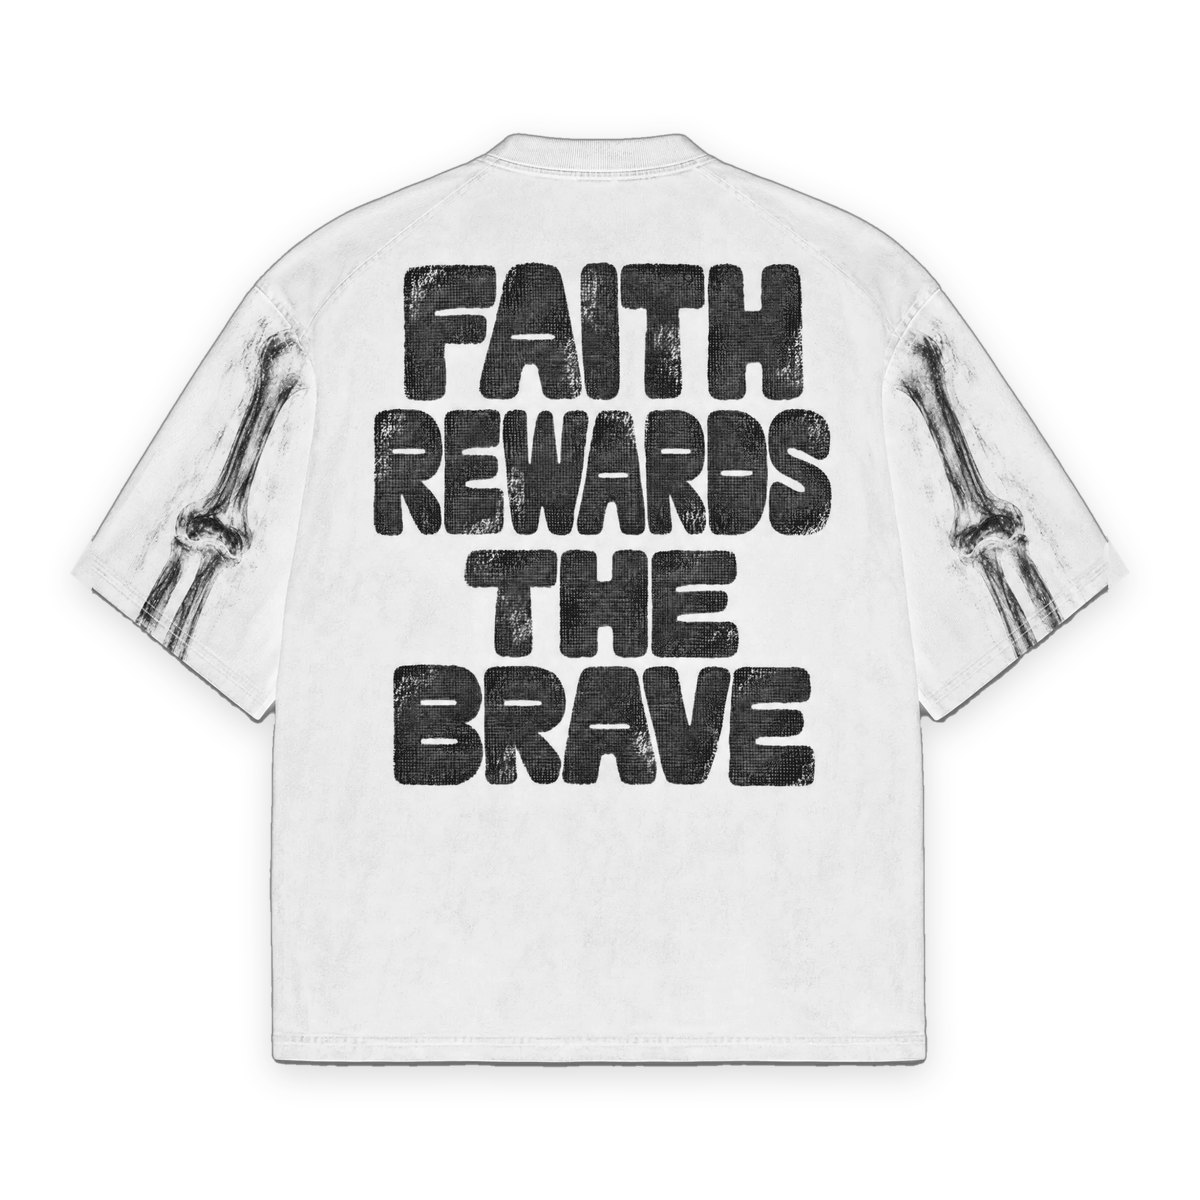
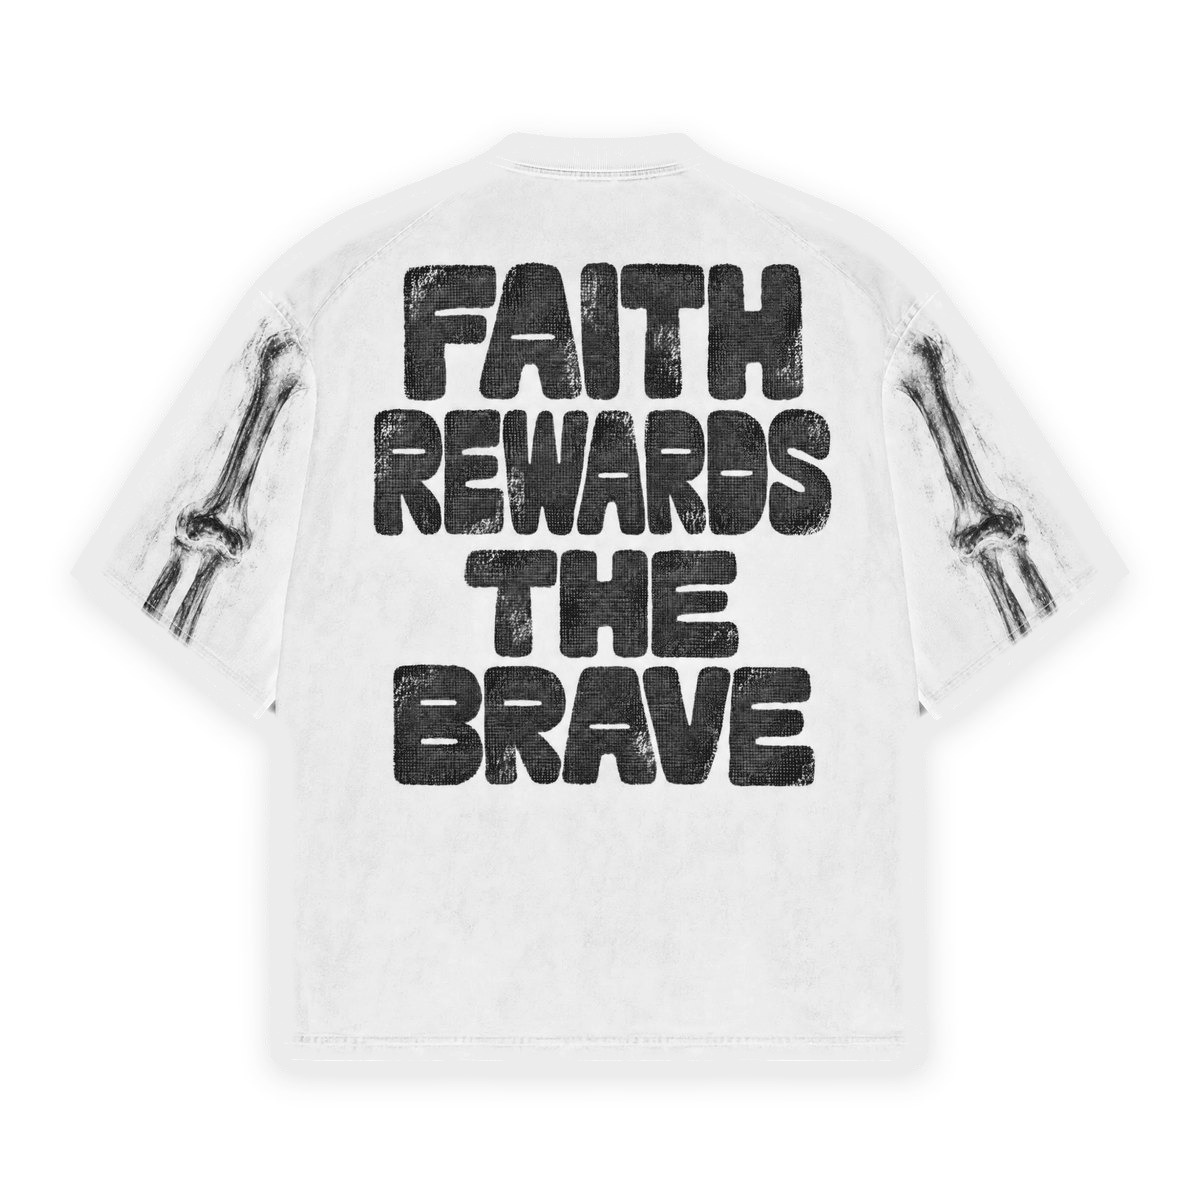
Deposit or full payment only, print length instead of sq in, one badge perk (community group), clean white 11/11 tee photos
Claude-Session: https://claude.ai/code/session_019QGSbsWRYL8V28rLuUQ5NB

diff --git a/src/lib/faq.ts b/src/lib/faq.ts
@@ -1,7 +1,7 @@
 import type { Settings } from './types'
 import type { RewardRules } from './rewards'
 import { fmtPts } from './rewards'
-import { PRICE_STRIP_IN } from '../components/TeeMockup'
+import { PRINT_SIZES, priceGuide } from './pricing'
 
 // The FAQ: every page of the site, the rewards, the pirogue and the hidden treasure, explained.
 // Numbers come from the live settings and reward rules, so answers stay right when they change.
@@ -27,8 +27,6 @@ export interface FaqCategory {
   blurb: string
   items: FaqItem[]
 }
-
-const sq = (inches: number) => Math.round(inches * PRICE_STRIP_IN)
 
 export function buildFaq(s: Settings, r: RewardRules, money: (n: number) => string): FaqCategory[] {
   const p = fmtPts
@@ -285,15 +283,11 @@ export function buildFaq(s: Settings, r: RewardRules, money: (n: number) => stri
           q: 'How is a custom tee priced?',
           a: [
             'By how much of the tee you print. The print on every area (front, back, sleeves and neck label) is added together, so there’s no separate charge per area.',
-            [
-              '**' + money(s.custom_base_price) + '** covers up to ' + sq(s.print_included_in) + ' sq in of print: enough for one big front or back print.',
-              '**' + money(s.price_at_tier) + '** at ' + sq(s.price_tier_in) + ' sq in.',
-              '**' + money(s.price_at_max) + '** at ' + sq(s.price_max_in) + ' sq in.',
-              'Then **' + money(s.price_per_inch_after) + '** for every extra ' + PRICE_STRIP_IN + ' sq in.',
-            ],
-            'Between those points the price rises a little at a time, rounded to the nearest 5. The studio shows the print size of each area and the running total as you design.',
+            'Print size is measured as the **length of the print on each side**: a **full print** is about ' + PRINT_SIZES.full + ' in long and a **mid print** about ' + PRINT_SIZES.mid + ' in long. Narrower prints count for less.',
+            priceGuide(s, money).map((g) => '**' + g.price + '** ' + g.text),
+            'Between those points the price rises a little at a time, rounded to the nearest 5. The studio shows the print length on each side and the running total as you design.',
           ],
-          tags: 'cost price square inches sq in print area front back sleeve label extra how much',
+          tags: 'cost price print size length inches full print mid print front back sleeve label extra how much',
         },
         {
           id: 'pricing-confirm',
@@ -333,7 +327,7 @@ export function buildFaq(s: Settings, r: RewardRules, money: (n: number) => stri
               '**Contact**: your name, email and phone or WhatsApp number. We use the email to look up your order.',
               '**Delivery**: have it delivered (' + money(s.shipping_fee) + ') with your address, or collect it for free.',
               '**Notes** (optional): deadlines, event dates or special requests.',
-              '**Payment**: bank transfer or cash on collection.',
+              '**Payment**: pay in full, or a 50% deposit with the balance before collection or delivery.',
             ],
             'If you’re signed in, your rewards appear here too, so you can apply a discount or a free tee. Press **Place order** and you’ll get your **order code**.',
           ],
@@ -345,11 +339,12 @@ export function buildFaq(s: Settings, r: RewardRules, money: (n: number) => stri
           a: [
             [
               '**Bank transfer** (preferred). Use your order code as the reference.',
-              '**Cash on collection**, with a **50% down payment** first. Down payments can be made at any Paywise outlet nationwide.',
+              'At any **Paywise** outlet nationwide.',
             ],
-            'After you order, the order page shows the amount due, the 50% down payment and your reference. Design work and printing only start once the down payment is made.',
+            'Every order needs **full payment** or a **50% deposit** up front; any balance is due before you collect or we deliver. We don’t take cash on collection.',
+            'After you order, the order page shows the amount due, the 50% deposit and your reference. Design work and printing only start once your payment is made.',
           ],
-          tags: 'pay payment bank transfer cash deposit down payment paywise reference card online',
+          tags: 'pay payment bank transfer cash deposit down payment full paywise reference card online collection',
         },
         {
           id: 'turnaround',
@@ -474,14 +469,10 @@ export function buildFaq(s: Settings, r: RewardRules, money: (n: number) => stri
           q: 'What do Engagement Points get me?',
           a: [
             'At **' + p(r.free_tee_ep) + ' EP** you earn a **free standard tee** (up to ' + money(r.free_tee_max_price) + '). Add one to your bag and make it free at checkout, or let it ride along free with your first order. It’s set aside for you for ' + r.claim_days + ' days.',
-            'Along the way you unlock badges, which are never spent:',
-            [
-              '**Lookout** at 250 EP: a badge on your account.',
-              '**Navigator** at 500 EP: a badge and first look at new drops.',
-              '**Smuggler’s World** at 1,000 EP: preview access to Smuggler’s World.',
-            ],
+            'Along the way you unlock badges, which are never spent: **Lookout** at 250 EP, **Navigator** at 500 EP and **Smuggler’s World** at 1,000 EP.',
+            '**Any badge gets you into our community group.** Once you have one, a **Join** button appears under your badges on your account page.',
           ],
-          tags: 'free tee redeem badges milestones lookout navigator smugglers world',
+          tags: 'free tee redeem badges milestones lookout navigator smugglers world community group chat join',
         },
         {
           id: 'rewards-buyer',

diff --git a/src/pages/Designer.tsx b/src/pages/Designer.tsx
@@ -2,7 +2,7 @@ import { useCallback, useEffect, useRef, useState } from 'react'
 import { useSearchParams } from 'react-router-dom'
 import { ArrowDown, ArrowUp, Check, Download, Info, Link2, Loader2, Minus, Plus, Redo2, RotateCcw, Save, Type, Undo2 } from 'lucide-react'
 import type { Area, Design, Layer, RosterRow } from '../lib/types'
-import { AREAS, CUSTOM_SIZES, areaScale, PRICE_STRIP_IN, PRINT, TeeMockup, areaBounds, areaCentre, svgToPng, VIEW } from '../components/TeeMockup'
+import { AREAS, CUSTOM_SIZES, areaScale, PRINT, TeeMockup, areaBounds, areaCentre, svgToPng, VIEW } from '../components/TeeMockup'
 import { Button, Field, Input, Swatch } from '../components/ui'
 import { FITS, TEE_COLORS, colorName, fitName } from '../lib/constants'
 import { cx, money, uid } from '../lib/format'
@@ -10,7 +10,7 @@ import { useSettings } from '../lib/settings'
 import { useCart } from '../store/cart'
 import { toast } from '../components/Toast'
 import { getDesign, getProduct, saveDesign } from '../lib/api'
-import { AREA_ORDER, areaLayers, customPrice, quoteCustom } from '../lib/pricing'
+import { AREA_ORDER, PRINT_SIZES, areaLayers, customPrice, inLabel, quoteCustom } from '../lib/pricing'
 import { checkImage, warmUpChecker } from '../lib/moderation'
 import { detectToneBase } from '../lib/tone'
 import { erasePlainBackground, removeBackground } from '../lib/bgRemoval'
@@ -33,8 +33,6 @@ const DRAFT = 'sp.designer.draft'
 const RULES_KEY = 'sp.designer.rules'
 const blank = (): Design => ({ color: '#111111', fit: 'regular', front: [], back: [] })
 const SMALL: Area[] = ['sleeve_left', 'sleeve_right', 'label']
-/** Running inches of the print strip, as square inches of print. */
-const sqIn = (inches: number) => Math.round(inches * PRICE_STRIP_IN)
 
 const loadDraft = (): Design => {
   try {
@@ -708,16 +706,16 @@ export default function Designer() {
               <p className="mt-1 text-xs text-ink-400">True to the size chart: the same print looks smaller on a bigger tee.</p>
             </div>
             <div className="space-y-1 text-sm">
-              <div className="flex justify-between text-ink-400"><span>Custom tee, {fitName(fit).toLowerCase()}, up to {sqIn(settings.print_included_in)} sq in of print</span><span className="shrink-0">{money(settings.custom_base_price)}</span></div>
+              <div className="flex justify-between text-ink-400"><span>Custom tee, {fitName(fit).toLowerCase()}, prints up to {inLabel(Math.round(settings.print_included_in))} long</span><span className="shrink-0">{money(settings.custom_base_price)}</span></div>
               {quote.lines.map((l) => (
                 <div key={l.area} className="flex justify-between gap-2 pl-3 text-xs text-ink-400">
                   <span>{AREAS[l.area].name} print</span>
-                  <span className="shrink-0">{measured.print_sq_in?.[l.area] ?? 0} sq in</span>
+                  <span className="shrink-0">{inLabel(l.inches)} long</span>
                 </div>
               ))}
               {quote.price > settings.custom_base_price && (
                 <div className="flex justify-between text-[#9a6a00]">
-                  <span>Extra print area, {sqIn(quote.inches - settings.print_included_in)} sq in</span>
+                  <span>Extra print length, {inLabel(quote.inches - settings.print_included_in)}</span>
                   <span className="shrink-0">+{money(quote.price - settings.custom_base_price)}</span>
                 </div>
               )}
@@ -726,10 +724,11 @@ export default function Designer() {
             <p className="flex gap-2 rounded-lg bg-acid/10 p-2.5 text-xs text-ink-300">
               <Info size={14} className="mt-0.5 shrink-0 text-acid" />
               <span>
-                Your price depends on how much of the tee you print: front, back, sleeves and label added together.
-                {money(settings.custom_base_price)} covers up to {sqIn(settings.print_included_in)} sq in, enough for one big front or back print.
-                More print adds a little at a time: {money(settings.price_at_tier)} at {sqIn(settings.price_tier_in)} sq in and {money(settings.price_at_max)} at {sqIn(settings.price_max_in)} sq in,
-                then {money(settings.price_per_inch_after)} for every extra {PRICE_STRIP_IN} sq in.
+                Your price depends on the print length on each side (front, back, sleeves and label added together).
+                A full print is about {PRINT_SIZES.full} in long and a mid print about {PRINT_SIZES.mid} in long; narrower prints count for less.
+                {' '}{money(settings.custom_base_price)} covers one full print on the front or back.
+                More print adds a little at a time: {money(settings.price_at_tier)} for {Math.round(settings.price_tier_in)} in of print in total and {money(settings.price_at_max)} for {Math.round(settings.price_max_in)} in,
+                then {money(settings.price_per_inch_after)} for every extra inch.
               </span>
             </p>
             <div className="flex items-center gap-3">

diff --git a/src/components/RewardsPanel.tsx b/src/components/RewardsPanel.tsx
@@ -1,9 +1,11 @@
 import { useEffect, useState } from 'react'
 import { Link } from 'react-router-dom'
-import { Anchor, Check, Compass, Gift, ImagePlus, Lock, Send, Telescope } from 'lucide-react'
+import { Anchor, Check, Compass, Gift, ImagePlus, Lock, Send, Telescope, Users } from 'lucide-react'
+import { useSettings } from '../lib/settings'
+import { WHATSAPP } from '../lib/brand'
 import { usePoints } from '../lib/points'
 import {
-  CURRENCY, MILESTONES, fmtPts, ladder, ledgerTitle, myLedger, mySubmissions, submitSocial,
+  BADGE_PERK, CURRENCY, MILESTONES, fmtPts, ladder, ledgerTitle, myLedger, mySubmissions, submitSocial,
   type LedgerRow, type MyRewards, type RewardRules, type SocialKind, type Submission,
 } from '../lib/rewards'
 import { uploadMedia } from '../lib/api'
@@ -22,21 +24,34 @@ function Bar({ value, max, className }: { value: number; max: number; className?
 
 const BADGE_ICONS = [Telescope, Compass, Anchor]
 
-/** Lookout, Navigator and Smuggler's World: given on reaching each total of Engagement Points, never spent. */
+/** Lookout, Navigator and Smuggler's World: given on reaching each total of Engagement Points, never spent. Any badge opens the community group. */
 function Badges({ lifetime }: { lifetime: number }) {
+  const { settings } = useSettings()
+  const earned = MILESTONES.filter((m) => lifetime >= m.at)
+  const best = earned[earned.length - 1]
+  // Until a group invite link is set in admin settings, members ask for the invite on WhatsApp.
+  const join = settings.community_url || `${WHATSAPP}?text=${encodeURIComponent(`Hi! I've unlocked the ${best?.name ?? ''} badge. Please add me to the community group.`)}`
   return (
-    <ul className="mt-4 grid gap-2 sm:grid-cols-3">
-      {MILESTONES.map((m, i) => {
-        const got = lifetime >= m.at
-        const Icon = BADGE_ICONS[i]
-        return (
-          <li key={m.at} className={cx('flex items-center gap-3 rounded-xl border p-3 text-sm', got ? 'border-[#f6b21a] bg-[#f6b21a]/10' : 'border-white/15 text-white/50')}>
-            <span className={cx('grid h-9 w-9 shrink-0 place-items-center rounded-full', got ? 'bg-[#f6b21a] text-black' : 'bg-white/10')}>{got ? <Icon size={18} /> : <Lock size={14} />}</span>
-            <span><b className="block">{m.name}</b><span className="text-xs opacity-75">{got ? m.perk : `At ${fmtPts(m.at)} EP`}</span></span>
-          </li>
-        )
-      })}
-    </ul>
+    <div className="mt-4">
+      <p className="text-xs text-white/60">Badges are never spent. Unlock any badge to join our community group.</p>
+      <ul className="mt-2 grid gap-2 sm:grid-cols-3">
+        {MILESTONES.map((m, i) => {
+          const got = lifetime >= m.at
+          const Icon = BADGE_ICONS[i]
+          return (
+            <li key={m.at} className={cx('flex items-center gap-3 rounded-xl border p-3 text-sm', got ? 'border-[#f6b21a] bg-[#f6b21a]/10' : 'border-white/15 text-white/50')}>
+              <span className={cx('grid h-9 w-9 shrink-0 place-items-center rounded-full', got ? 'bg-[#f6b21a] text-black' : 'bg-white/10')}>{got ? <Icon size={18} /> : <Lock size={14} />}</span>
+              <span><b className="block">{m.name}</b><span className="text-xs opacity-75">{got ? BADGE_PERK : `At ${fmtPts(m.at)} EP`}</span></span>
+            </li>
+          )
+        })}
+      </ul>
+      {best && (
+        <a href={join} target="_blank" rel="noreferrer" className="mt-3 inline-flex items-center gap-2 rounded-full bg-[#f6b21a] px-4 py-2 text-sm font-semibold text-black transition hover:brightness-110 active:scale-95">
+          <Users size={16} /> Join our community group
+        </a>
+      )}
+    </div>
   )
 }
 

diff --git a/src/lib/seed.ts b/src/lib/seed.ts
@@ -83,7 +83,7 @@ export const seedProducts = (): Product[] => [
     variants: [
       { id: 'tee-gold', style: "Oversized tee (men's)", color: 'Black / gold print', swatch: '#111111', print: '#F2B91A', images: ['/products/frtb-tee-gold-front.jpg', '/products/frtb-tee-gold-back.jpg'] },
       { id: 'tee-red', style: "Oversized tee (men's)", color: 'Black / red print', swatch: '#111111', print: '#E12124', images: ['/products/frtb-tee-red-front.jpg', '/products/frtb-tee-red-back.jpg'] },
-      { id: 'tee-white', style: "Oversized tee (men's)", color: 'White / black print', swatch: '#FFFFFF', print: '#111111', images: ['/products/frtb-tee-white-front.jpg', '/products/frtb-tee-white-back.jpg'] },
+      { id: 'tee-white', style: "Oversized tee (men's)", color: 'White / black print', swatch: '#FFFFFF', print: '#111111', images: ['/products/frtb-tee-white2-front.jpg', '/products/frtb-tee-white2-back.jpg'] },
       { id: 'vest-gold', style: "Cropped vest (women's)", color: 'Black / gold print', swatch: '#111111', print: '#F2B91A', images: ['/products/frtb-vest-gold-front.jpg', '/products/frtb-vest-gold-back.jpg'] },
       { id: 'vest-red', style: "Cropped vest (women's)", color: 'Black / red print', swatch: '#111111', print: '#E12124', images: ['/products/frtb-vest-red-front.jpg', '/products/frtb-vest-red-back.jpg'] },
       { id: 'vest-white', style: "Cropped vest (women's)", color: 'White / black print', swatch: '#FFFFFF', print: '#111111', images: ['/products/frtb-vest-white-front.jpg', '/products/frtb-vest-white-back.jpg'] },
@@ -105,7 +105,8 @@ export const defaultSettings = (): Settings => ({
   free_shipping_over: 0,
   whatsapp: '',
   announcement: 'New drop: Sovereignty. Ultra heavyweight 400gsm.',
-  payment_instructions: 'Bank transfer is preferred: use your order code as the reference. Paying cash on collection? Make the 50% down payment first, at any Paywise outlet nationwide.',
+  community_url: '',
+  payment_instructions: 'Pay by bank transfer (preferred), using your order code as the reference, or at any Paywise outlet nationwide. Pay in full, or a 50% deposit now with the balance before you collect or we deliver.',
 })
 
 const NAMES = ['Thabo M.', 'Aisha K.', 'Jordan P.', 'Lerato S.', 'Mike D.', 'Zanele N.', 'Chris O.', 'Naledi B.', 'Sam W.', 'Kea T.', 'Priya R.', 'Liam F.']

diff --git a/src/lib/pricing.ts b/src/lib/pricing.ts
@@ -43,3 +43,25 @@ export function quoteCustom(d: Design, s: Settings): CustomQuote {
 }
 
 export const customPrice = (d: Design, s: Settings) => quoteCustom(d, s).price
+
+/** Print sizes customers know, in inches of print length (one side, full print width). */
+export const PRINT_SIZES = { full: 22, mid: 15 }
+
+/** Inches for customer copy: whole inches, or one decimal when it matters (e.g. 4.5 in). */
+export const inLabel = (n: number) => `${Math.round(n * 2) / 2} in`
+
+/**
+ * The custom-tee price points in plain words, as print length on each side (never square inches):
+ * a full print is about 22 in long, a mid print about 15 in long. Used by the design studio and the FAQ.
+ */
+export function priceGuide(s: Settings, money: (n: number) => string) {
+  const full = Math.round(s.print_included_in)
+  const tierExtra = Math.max(0, Math.round(s.price_tier_in - s.print_included_in))
+  const maxExtra = Math.max(0, Math.round(s.price_max_in - s.print_included_in))
+  return [
+    { price: money(s.custom_base_price), text: `covers prints up to ${full} in long in total: one full print (${full} in long) on the front or back.` },
+    { price: money(s.price_at_tier), text: `for ${Math.round(s.price_tier_in)} in of print in total, e.g. a full print on one side and a small ${tierExtra} in print on the other.` },
+    { price: money(s.price_at_max), text: `for ${Math.round(s.price_max_in)} in of print in total, e.g. a full print on the front and a ${maxExtra} in print on the back.` },
+    { price: money(s.price_per_inch_after), text: 'for every extra inch of print length after that.' },
+  ]
+}

diff --git a/src/pages/admin/SettingsPage.tsx b/src/pages/admin/SettingsPage.tsx
@@ -30,6 +30,7 @@ export default function SettingsPage() {
         <Field label="Currency code" hint="e.g. USD, ZAR, NGN, GBP, EUR"><Input value={s.currency} maxLength={3} onChange={(e) => setS({ ...s, currency: e.target.value.toUpperCase() })} /></Field>
         <Field label="WhatsApp number" hint="International format, e.g. 27821234567"><Input value={s.whatsapp} onChange={set('whatsapp')} /></Field>
         <Field label="Announcement bar" hint="Leave empty to hide it"><Input value={s.announcement} onChange={set('announcement')} /></Field>
+        <Field label="Community group invite link" hint="Any rewards badge shows a Join button with this link. Empty: members ask for the invite on WhatsApp."><Input value={s.community_url ?? ''} placeholder="https://chat.whatsapp.com/…" onChange={set('community_url')} /></Field>
       </Card>
       <Card className="grid gap-4 sm:grid-cols-2">
         <p className="text-sm text-ink-400 sm:col-span-2">Custom tees are priced on the print length of every area together (front, back, sleeves and label), counted as a 22-inch-wide strip (1 running inch = 22 sq in). The price runs smoothly between the three price points below, rounded to the nearest 5.</p>

diff --git a/src/lib/constants.ts b/src/lib/constants.ts
@@ -72,7 +72,8 @@ export const STATUS_META: Record<OrderStatus, { label: string; color: string; bl
 export const statusLabel = (s: OrderStatus, fulfillment?: 'delivery' | 'pickup') =>
   s === 'delivered' && fulfillment === 'pickup' ? 'Collected' : STATUS_META[s].label
 
-export const PAYMENT_METHODS = ['Bank transfer (preferred)', 'Cash on collection (50% down payment required)']
+/** Every order is paid up front: in full, or a 50% deposit with the balance before collection or delivery. */
+export const PAYMENT_METHODS = ['Full payment', '50% deposit now, balance before collection or delivery']
 /** Turnaround promise, used across the site. */
 export const READY_NOTE = 'Ready 2-5 work days after payment is made.'
-export const DEPOSIT_NOTE = 'Design work and printing only start once a 50% down payment is made. Down payments can be made at Paywise outlets nationwide.'
+export const DEPOSIT_NOTE = 'Every order needs a 50% deposit or full payment. Design work and printing only start once it is made, and any balance is due before collection or delivery.'

diff --git a/src/lib/rewards.ts b/src/lib/rewards.ts
@@ -45,12 +45,14 @@ export const DEFAULT_RULES: RewardRules = {
   claim_days: 60, ep_expiry_days: 180, pp_expiry_months: 12,
 }
 
-/** Badges and access an Engager unlocks on reaching each total. Never spent. */
+/** Badges unlocked on reaching each total of Engagement Points. Never spent. Any one badge gets you into the community group. */
 export const MILESTONES = [
-  { at: 250, name: 'Lookout', perk: 'Lookout badge on your account' },
-  { at: 500, name: 'Navigator', perk: 'Navigator badge and first look at new drops' },
-  { at: 1000, name: 'Smuggler’s World', perk: 'Preview access to Smuggler’s World' },
+  { at: 250, name: 'Lookout' },
+  { at: 500, name: 'Navigator' },
+  { at: 1000, name: 'Smuggler’s World' },
 ]
+/** What every badge gives you. */
+export const BADGE_PERK = 'Access to our community group'
 
 export type RewardId = 'free_tee_ep' | 'credit_50' | 'free_tee_pp' | 'free_custom_pp'
 

diff --git a/src/pages/OrderStatus.tsx b/src/pages/OrderStatus.tsx
@@ -71,7 +71,7 @@ export default function OrderStatus() {
         <Card className="mt-4 border-acid/40">
           <p className="text-sm font-semibold text-acid">Payment: {order.payment_method}</p>
           <p className="mt-1 text-sm text-ink-200">{settings.payment_instructions}</p>
-          <p className="mt-2 text-sm">Amount due: <b>{money(order.total)}</b> · 50% down payment: <b>{money(Math.ceil(order.total / 2))}</b> · Reference: <b className="font-mono">{order.code}</b></p>
+          <p className="mt-2 text-sm">Amount due: <b>{money(order.total)}</b> · 50% deposit: <b>{money(Math.ceil(order.total / 2))}</b> · Reference: <b className="font-mono">{order.code}</b></p>
           <p className="mt-2 text-sm text-ink-400">{DEPOSIT_NOTE} {READY_NOTE}</p>
         </Card>
       )}

diff --git a/src/pages/Checkout.tsx b/src/pages/Checkout.tsx
@@ -104,7 +104,7 @@ export default function Checkout() {
           </Field>
           <p className="rounded-xl bg-ink-800 p-3 text-sm text-ink-200">{settings.payment_instructions}</p>
           <div className="space-y-1.5 rounded-xl border border-acid/40 bg-acid/10 p-3 text-sm">
-            <p className="font-semibold">50% down payment required</p>
+            <p className="font-semibold">Deposit or full payment required</p>
             <p className="text-ink-300">{DEPOSIT_NOTE}</p>
             <p className="text-ink-300">{READY_NOTE}</p>
           </div>

diff --git a/src/lib/types.ts b/src/lib/types.ts
@@ -187,6 +187,8 @@ export interface Settings {
   whatsapp: string
   announcement: string
   payment_instructions: string
+  /** Invite link to the community group that any rewards badge unlocks. Empty: members ask on WhatsApp. */
+  community_url: string
 }
 
 export interface CheckoutInput {
